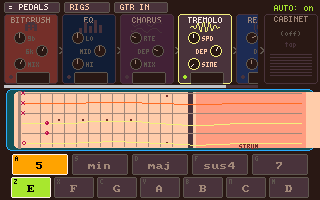
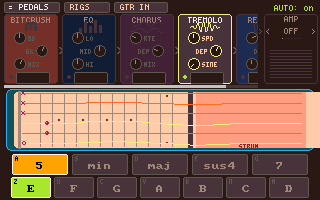
pedalboard: the cabinet slot becomes one flat AMP list, no hidden cycles
"Clicking Cabinet adds... amp sims? You might want to call this amp. Clicking
Cabinet again goes to... modulation? It's surprising / counterintuitive that
this cycles through these modes."

He named two problems and half-named the third, which was the real one.

NAME. ampcab.h's table is five AMPS (drive shaper + EQ + glue) -- preamp
voicing, not a speaker box. A guitarist reads "cabinet" as the speaker only.
Header is now AMP.

THE ACTUAL SIN was TWO STACKED HIDDEN CYCLES: the header cycled
NONE->AMP->LESLIE while the row below stepped within whichever kind you were
on, and nothing on screen said either cycle existed or what else was in it.
That is why "clicking Cabinet again" landing on modulation reads as a
non-sequitur -- he was a level up from where he thought. Third time this repo
has paid for a hidden cycle; acidcandy recorded the other two (its
PICK/PLAY/MUTE/REC pads, "the maker forgot it existed", and its hold-to-open
FX hub, "a gesture nobody can SEE is not a control").

So: ONE flat list, OFF / CLEAN / CHIME / CRUNCH / HI-GAIN / LO-FI / ROTARY,
with drawn < > arrows and a pip per entry so the list is visibly a list and you
can see where you are in it. The header is now an inert label.

ROTARY sits AMONG the amps, which is his suggestion and also the honest
taxonomy: a Leslie 122 contains its own power amp, so you plug into it INSTEAD
of a Marshall. It is a peer output stage, not an effect. It also cannot become
[…]

Changed region(s): [[0.8125, 0.21, 1.0, 0.39], [0.8438, 0.06, 0.9688, 0.18], [0.8125, 0.15, 0.8438, 0.18]]

diff --git a/tools/carts/pedalboard.c b/tools/carts/pedalboard.c
@@ -149,6 +149,30 @@ static int   cab_tenant  = CAB_NONE;
 static bool  cabfuzz_applied = false;    // was the cabinet OR fuzz engaged last apply? (untouched session stays byte-identical)
 static int   cab_voicing = 2;            // AMP_VC index (CRUNCH)
 static int   cab_speed   = LESLIE_SLOW;  // Leslie rotor speed
+
+// ── the output stage as ONE FLAT LIST: OFF · the five amps · ROTARY ─────────────────────────────
+// It used to be TWO STACKED HIDDEN CYCLES — tapping the header cycled NONE→AMP→LESLIE and tapping
+// the row below stepped within that kind — with nothing on screen saying either cycle existed. A
+// player hit exactly that: "clicking Cabinet adds amp sims? … clicking Cabinet again goes to
+// modulation? It's surprising / counterintuitive that this cycles through these modes." Third time
+// this repo has paid for a hidden cycle (acidcandy's PICK/PLAY/MUTE/REC pads and its hold-to-open
+// FX hub both cost a session), so: one flat list, arrows you can see, a pip per entry.
+//
+// ROTARY sits among the amps rather than beside them because a Leslie 122 CONTAINS its own power
+// amp — you plug into it INSTEAD of a Marshall. It is a peer output stage, not an effect. (It also
+// cannot be a chain pedal: sound.h pins leslie_process last, "cabinet output stage, not a
+// reorderable pedal", and a pedal that silently always sits last would be a lie in the one cart
+// whose whole premise is that chain order is audible.)
+//
+// tenant+voicing stay the INTERNAL representation — apply_fx and the RIG table speak that language
+// and are untouched. The flat index is purely the UI's view of them.
+#define CAB_SEL_N (AMPCAB_N + 2)         // OFF + 5 amps + ROTARY = 7
+static int cab_sel(void) {
+    return cab_tenant == CAB_NONE ? 0 : cab_tenant == CAB_AMP ? cab_voicing + 1 : AMPCAB_N + 1;
+}
+static const char *cab_sel_name(int i) {
+    return i == 0 ? "OFF" : i <= AMPCAB_N ? AMP_VC[i - 1].name : "ROTARY";
+}
 static float cab_k[2]    = { 0.5f, 0.5f }; // amp: GAIN, SAG  ·  leslie: DRIVE, BALANCE
 static const float CAB_KDEF[2] = { 0.5f, 0.5f };   // …their double-click-to-default targets
 // DOUBLE-TAP TO DEFAULT. Semantics lifted from acidcandy's _knobx (tools/carts/acidcandy.c), which
@@ -340,6 +364,13 @@ static bool pedal_locked(int cat) {
 }
 static int  content_w(void)      { return chain_n * PITCH; }
 static float max_scroll(void)    { float m = (float)(content_w() - VIEW_W); return m < 0 ? 0 : m; }
+static void cab_set_sel(int i) {                     // wraps both ways; the UI's only write path
+    i = (i % CAB_SEL_N + CAB_SEL_N) % CAB_SEL_N;
+    if      (i == 0)          cab_tenant = CAB_NONE;
+    else if (i <= AMPCAB_N) { cab_tenant = CAB_AMP; cab_voicing = i - 1; }
+    else                      cab_tenant = CAB_LESLIE;
+    dirty = 1;
+}
 static void clamp_scroll(void)   { float m = max_scroll(); if (scroll_x < 0) scroll_x = 0; if (scroll_x > m) scroll_x = m; }
 static void chain_insert(int cat, int at) {
     if (chain_n >= NCAT || chain_index(cat) >= 0) return;
@@ -756,13 +787,17 @@ void update(void) {
             // 1b. the pinned CABINET box (right of the chain): header taps cycle the tenant, the
             // selector row steps the voicing/speed, the two knobs drag.
             if (p->mode == PTR_IDLE && ty >= PED_Y && ty < PED_Y + PED_H && tx >= CAB_X) {
-                if (ty < PED_Y + 13) { cab_tenant = (cab_tenant + 1) % 3; dirty = 1; }           // header → none/amp/leslie
+                if (ty < PED_Y + 11) { /* header is a LABEL now, not a control */ }
+                else if (ty < PED_Y + 30) {                                                       // the one selector
+                    if (tx < CAB_X + 14) cab_set_sel(cab_sel() - 1);                              // ‹ prev
+                    else                 cab_set_sel(cab_sel() + 1);                              // › next (also the wide middle)
+                }
+                else if (cab_tenant == CAB_LESLIE && ty >= PED_Y + 58) {                          // STOP/SLOW/FAST
+                    int z = (tx - CAB_X) * 3 / CAB_W; if (z < 0) z = 0; if (z > 2) z = 2;
+                    cab_speed = z; dirty = 1;                                                     // = LESLIE_STOP/SLOW/FAST
+                }
                 else if (cab_tenant != CAB_NONE) {
-                    if (ty < PED_Y + 28) {                                                        // selector row → step
-                        if (cab_tenant == CAB_AMP) cab_voicing = (cab_voicing + 1) % AMPCAB_N;
-                        else                       cab_speed   = (cab_speed + 1) % 3;
-                        dirty = 1;
-                    } else if (point_in_box(tx, ty, CAB_X + 4, PED_Y + 34, CAB_W / 2 - 4, 24)) {
+                    if (point_in_box(tx, ty, CAB_X + 4, PED_Y + 34, CAB_W / 2 - 4, 24)) {
                         km_grab(KM_CAB, 0, cab_k[0]);
                         p->mode = PTR_CABKNOB; p->knob = 0;
                     }
@@ -841,6 +876,7 @@ void update(void) {
 #ifdef DE_TRACE
     watch("chain_n", "%d", chain_n); watch("pal", "%d", palette_open);
     watch("cab", "%d", cab_tenant); watch("voicing", "%d", cab_voicing);
+    watch("sel", "%d", cab_sel()); watch("spd", "%d", cab_speed);   // the flat amp index + rotary speed
 #endif
 }
 
@@ -1067,31 +1103,63 @@ static void draw_guitar(void) {
 // none / guitar amp (a voicing) / Leslie; header taps cycle it, the selector row steps, two knobs.
 static void draw_cabinet(void) {
     int x = CAB_X, cx = x + CAB_W / 2;
-    bool amp = (cab_tenant == CAB_AMP), none = (cab_tenant == CAB_NONE);
+    int sel = cab_sel();
+    bool amp = (cab_tenant == CAB_AMP), none = (cab_tenant == CAB_NONE), rot = (cab_tenant == CAB_LESLIE);
     int accent = amp ? AMP_VC[cab_voicing].col : none ? CLR_DARKER_GREY : CLR_LIGHT_GREY;
-    print(">", VIEW_R + 1, PED_Y + 33, CLR_DARK_GREY);                              // "...into the amp"
+    // "…into the amp". FONT_TINY and parked between the header and the first knob-label row: at the
+    // old FONT_NORMAL/+33 it sat right on the last visible pedal's right-column label (ui-audit's
+    // long-standing "DMP overlaps >").
+    font(FONT_TINY); print(">", VIEW_R + 1, PED_Y + 15, CLR_DARK_GREY); font(FONT_NORMAL);
     rrectfill(x, PED_Y, CAB_W, PED_H, 4, none ? CLR_BROWNISH_BLACK : CLR_DARK_BROWN);
     rrect(x, PED_Y, CAB_W, PED_H, 4, accent);
-    font(FONT_SMALL); print_centered("CABINET", cx, PED_Y + 2, none ? CLR_MEDIUM_GREY : CLR_WHITE); font(FONT_NORMAL);
+    // AMP, not "CABINET": the five entries are ampcab.h AMP voicings (drive + EQ + glue), i.e. the
+    // preamp, not the speaker box. A player read the old label and reasonably expected speakers.
+    font(FONT_SMALL); print_centered("AMP", cx, PED_Y + 2, none ? CLR_MEDIUM_GREY : CLR_WHITE);
+
+    // ONE selector, with the arrows DRAWN so the list is visibly a list (the whole point of the
+    // rework — the old version cycled invisibly). Wide middle = next, so a plain tap still works.
+    print("<", x + 2, PED_Y + 14, CLR_MEDIUM_GREY);          // x+2/-6, not x+4/-8: "HI-GAIN" is the
+    print(">", x + CAB_W - 6, PED_Y + 14, CLR_MEDIUM_GREY);  // widest entry and was touching them
+    print_centered(cab_sel_name(sel), cx, PED_Y + 14, none ? CLR_MEDIUM_GREY : accent);
+    font(FONT_NORMAL);
+    for (int i = 0; i < CAB_SEL_N; i++) {                                           // a pip per entry: where am I, how many are there
+        int px = cx - (CAB_SEL_N * 3) / 2 + i * 3 + 1;
+        pset(px, PED_Y + 24, i == sel ? (none ? CLR_MEDIUM_GREY : accent) : CLR_DARKER_GREY);
+    }
     if (none) {
-        font(FONT_TINY); print_centered("(off)", cx, PED_Y + 17, CLR_DARK_GREY);
-        print_centered("tap", cx, PED_Y + 28, CLR_DARKER_GREY); font(FONT_NORMAL);
-        for (int gy = PED_Y + 40; gy < PED_Y + 64; gy += 3) line(x + 6, gy, x + CAB_W - 6, gy, CLR_DARKER_GREY);  // dim grille
+        for (int gy = PED_Y + 36; gy < PED_Y + 64; gy += 3) line(x + 6, gy, x + CAB_W - 6, gy, CLR_DARKER_GREY);  // dim grille
         return;
     }
-    font(FONT_SMALL);                                                               // selector readout
-    print_centered(amp ? AMP_VC[cab_voicing].name
-                       : cab_speed == LESLIE_STOP ? "STOP" : cab_speed == LESLIE_SLOW ? "SLOW" : "FAST",
-                   cx, PED_Y + 15, accent);
-    font(FONT_NORMAL);
-    int ky = PED_Y + 46, kx0 = x + 15, kx1 = x + CAB_W - 15;
+    int ky = PED_Y + (rot ? 42 : 46), kx0 = x + 15, kx1 = x + CAB_W - 15;   // rotary lifts the knobs:
+                                                                            // the speed row needs the floor
     const char *l0 = amp ? "GAIN" : "DRV", *l1 = amp ? "SAG" : "BAL";
     for (int j = 0; j < 2; j++) {
         int kx = j ? kx1 : kx0;
+        bool turning = (drag_cat == KM_CAB && drag_knob == j);
         circfill(kx, ky, 6, CLR_BROWNISH_BLACK); circ(kx, ky, 6, accent);
         float a = (-135.0f + cab_k[j] * 270.0f) * 0.0174533f;
-        line(kx, ky, kx + (int)(sinf(a) * 5), ky - (int)(cosf(a) * 5), CLR_WHITE);
-        font(FONT_TINY); print_centered(j ? l1 : l0, kx, ky + 8, CLR_LIGHT_PEACH); font(FONT_NORMAL);
+        line(kx, ky, kx + (int)(sinf(a) * 5), ky - (int)(cosf(a) * 5),
+             (turning && drag_fine) ? CLR_ORANGE : CLR_WHITE);
+        font(FONT_TINY);
+        print_centered(turning ? str("%d", (int)(cab_k[j] * 99.0f + 0.5f)) : (j ? l1 : l0),
+                       kx, ky + 8, CLR_LIGHT_PEACH);
+        font(FONT_NORMAL);
+    }
+    // ROTARY's speed on the FRONT PANEL, as the three-way it physically is (the Leslie half-moon
+    // switch). It used to hide inside the same invisible cycle as the amp choice, which buried the
+    // engine's best trick: the rotors take SECONDS to spin up/down, so flipping SLOW<->FAST is the
+    // chorale-to-tremolo swell. That is the most recognisable thing a Leslie does; it should be one
+    // obvious tap, not a discovery.
+    if (rot) {
+        static const char *SPD[3] = { "STP", "SLW", "FST" };
+        font(FONT_TINY);
+        for (int i = 0; i < 3; i++) {
+            int bw = CAB_W / 3, bx = x + i * bw;
+            bool on = (cab_speed == i);
+            rrectfill(bx + 1, PED_Y + 58, bw - 2, 10, 2, on ? CLR_LIGHT_GREY : CLR_BROWNISH_BLACK);
+            print_centered(SPD[i], bx + bw / 2, PED_Y + 61, on ? CLR_BLACK : CLR_MEDIUM_GREY);
+        }
+        font(FONT_NORMAL);
     }
 }
 
